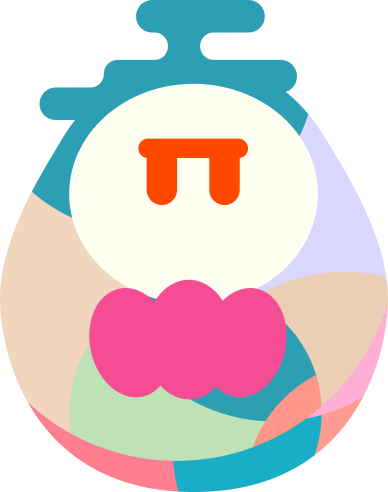
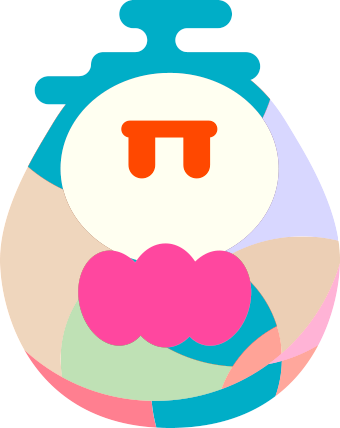
chore: update daruma images

Changed region(s): [[0.0882, 0.0, 0.7941, 0.4556], [0.4412, 0.6682, 0.8529, 1.0], [0.6176, 0.3037, 0.6471, 0.3341]]

diff --git a/src/components/hero.tsx b/src/components/hero.tsx
@@ -34,22 +34,22 @@ const Hero = () => {
         <Image
           src="/daruma-left.png"
           alt=""
-          width={408}
-          height={492}
+          width={357}
+          height={428}
           className="absolute top-[51vw] -left-[6vw] h-[40vw] w-auto sm:top-[9vw] sm:left-[6vw] sm:h-[30vw]"
         />
         <Image
           src="/daruma-center.png"
           alt=""
-          width={388}
-          height={492}
+          width={340}
+          height={428}
           className="absolute top-[51vw] left-1/2 h-[40vw] w-auto -translate-x-1/2 sm:top-[9vw] sm:h-[30vw]"
         />
         <Image
           src="/daruma-right.png"
           alt=""
-          width={424}
-          height={524}
+          width={369}
+          height={457}
           className="absolute top-[51vw] -right-[6vw] h-[40vw] w-auto sm:top-[9vw] sm:right-[6vw] sm:h-[30vw]"
         />
       </div>
